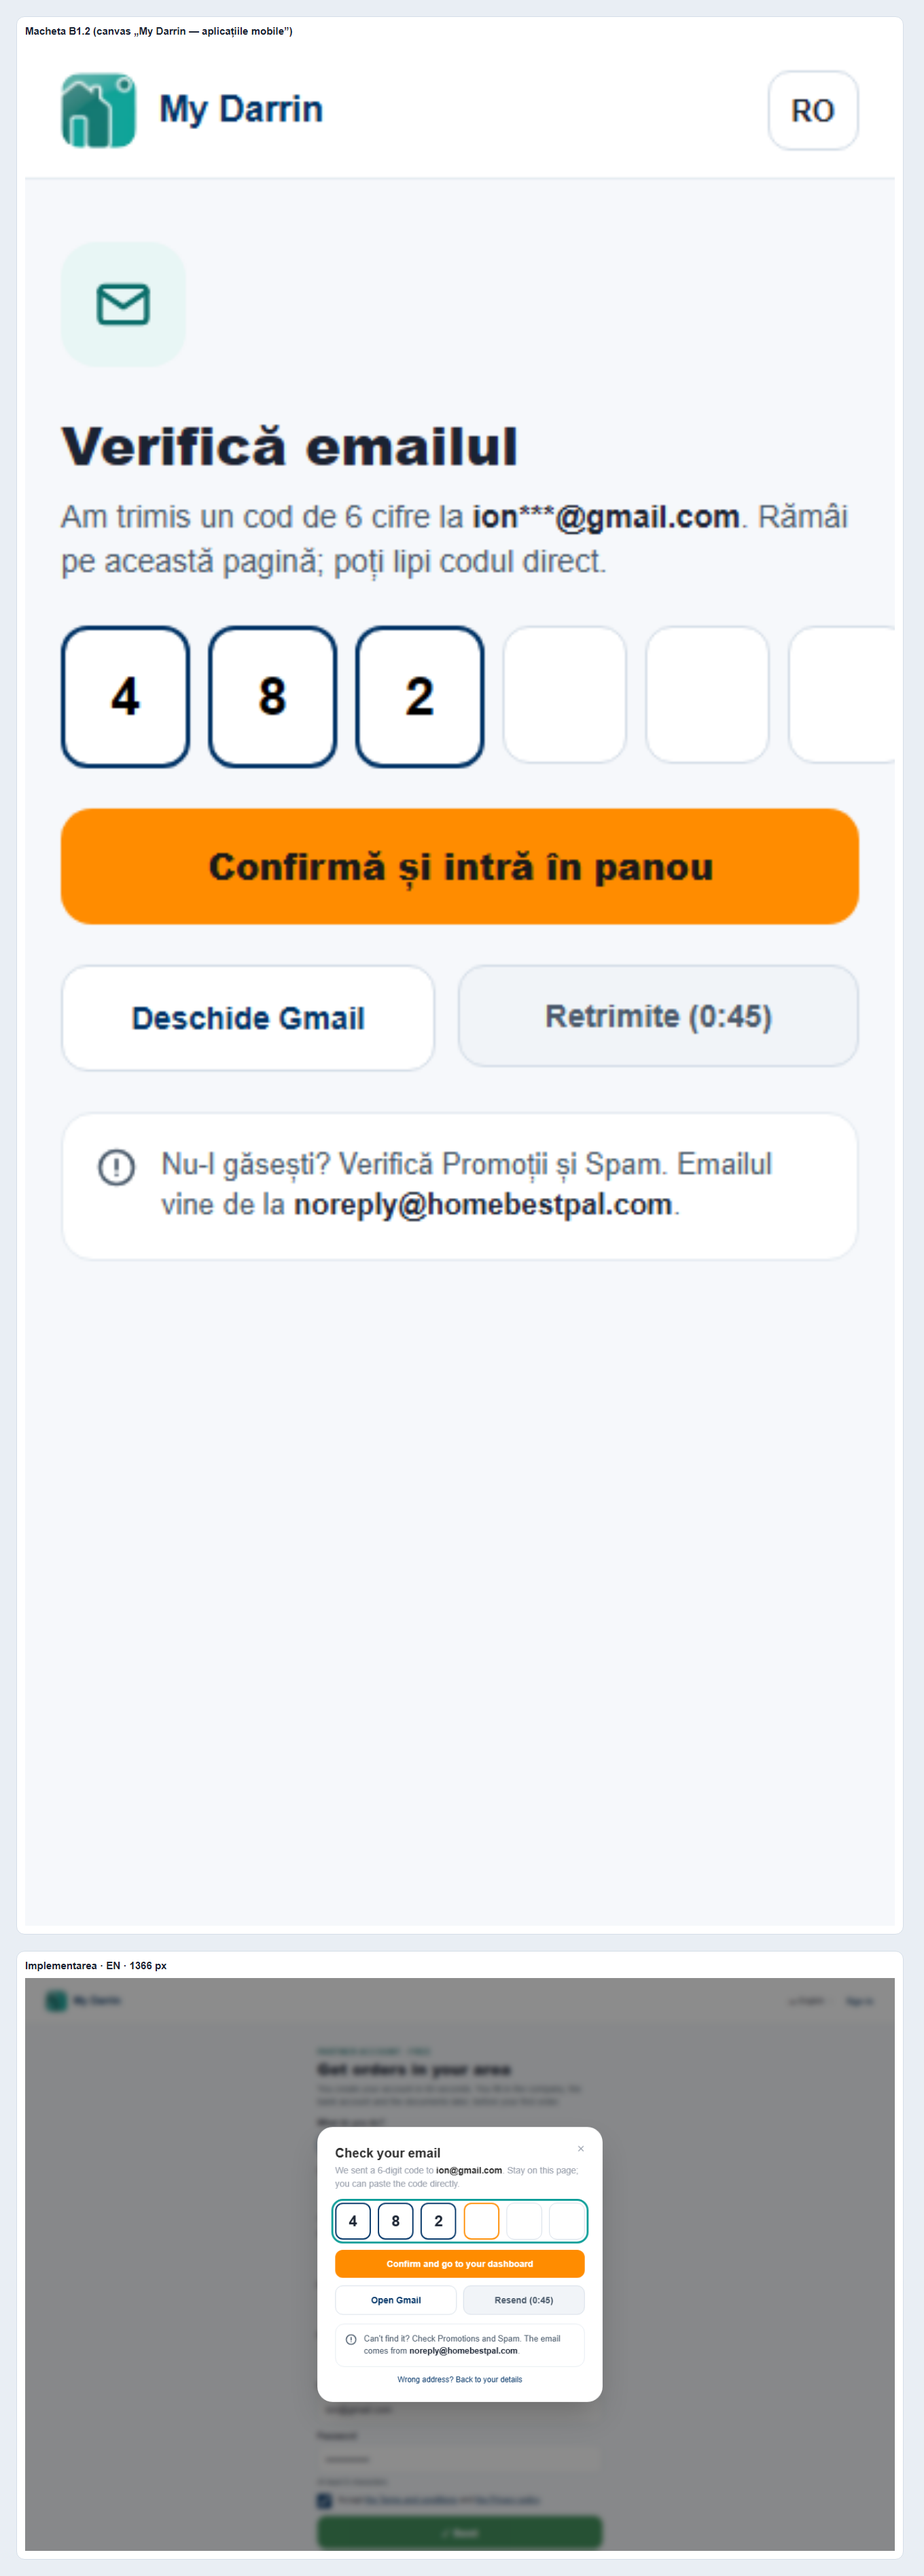
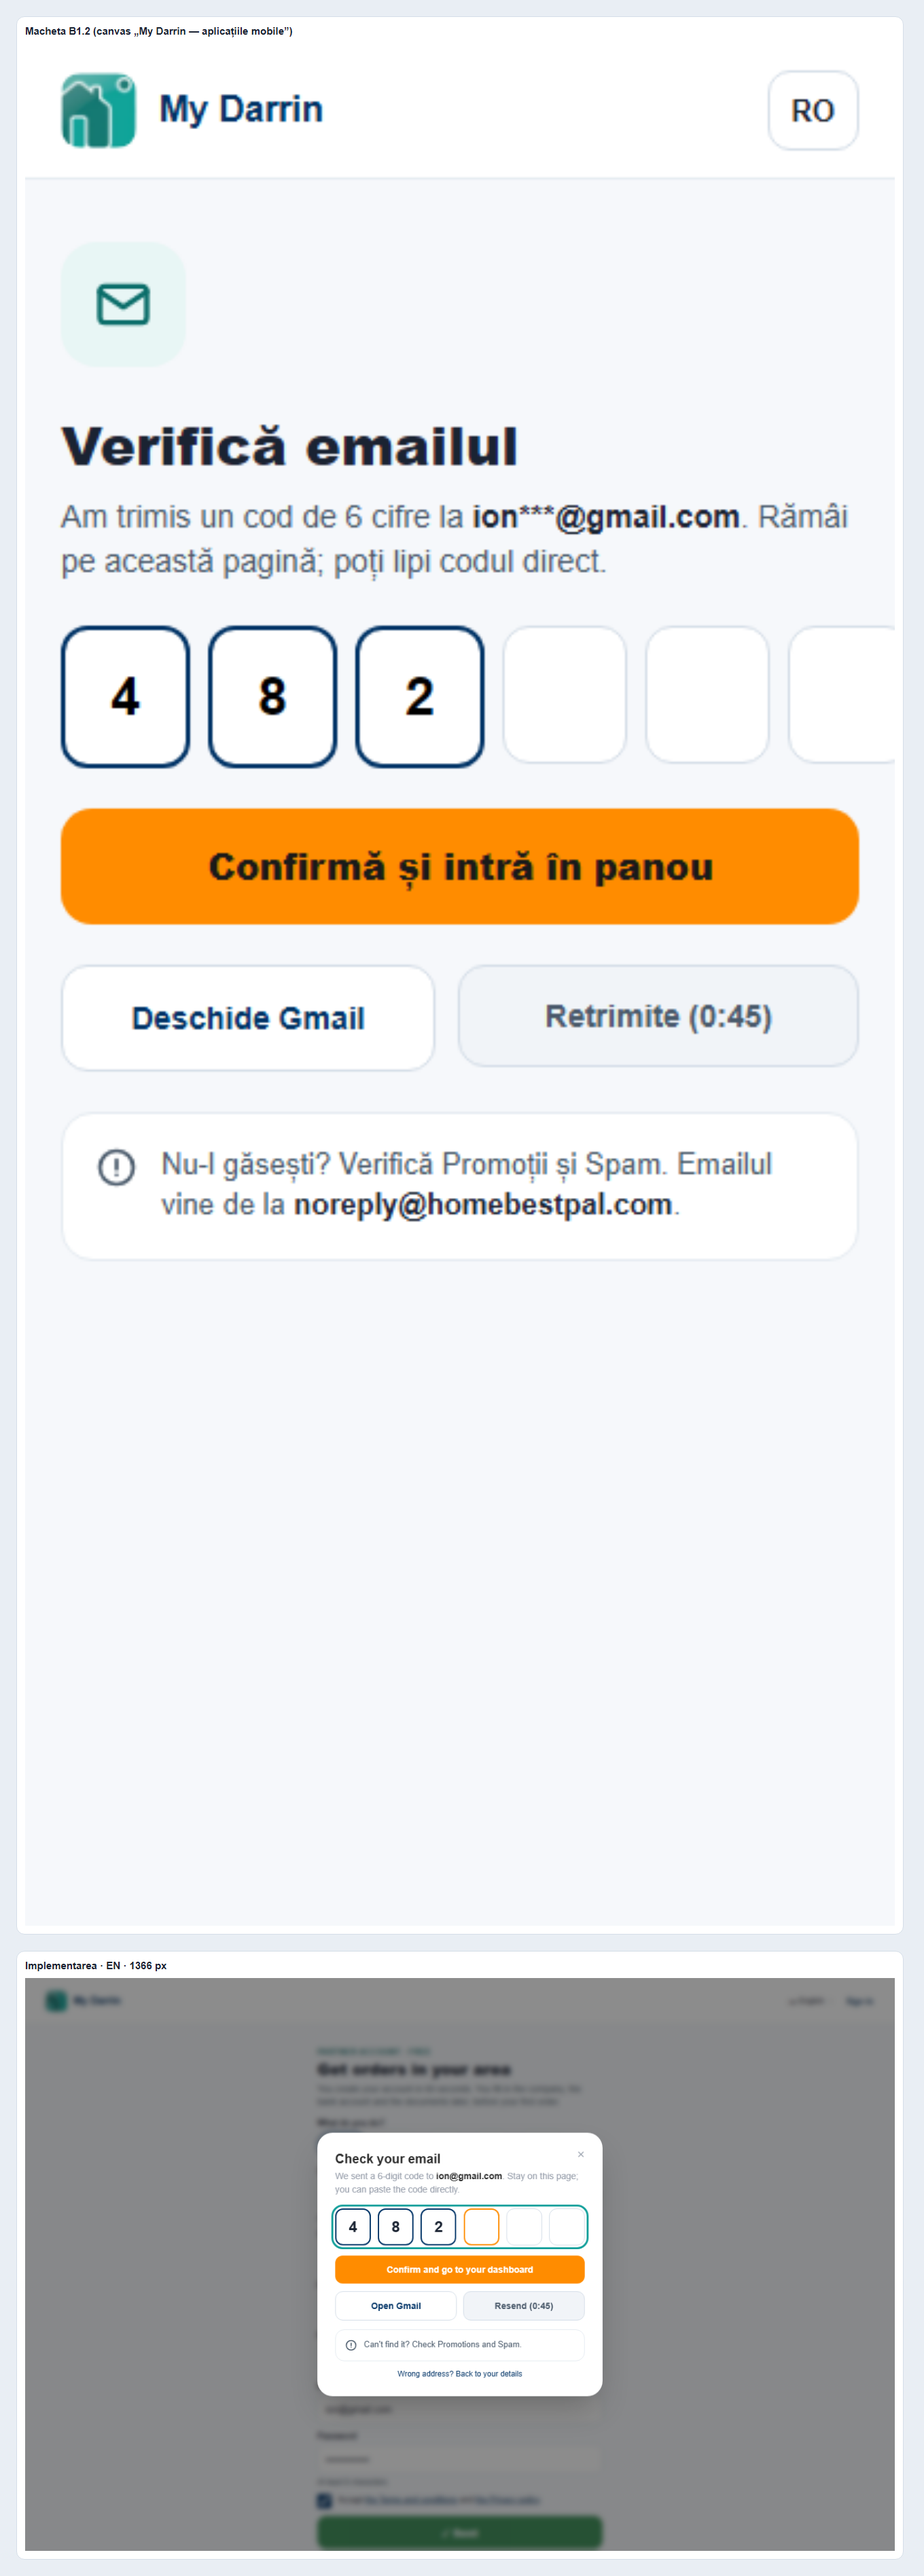
Pasul 12-P1: textele decise de LM (17 nov. 2026); traducerile EN în _texte
- cardul turcoaz: „Comenzi în zona ta · {profesie} · {oraș}” / „Orders in your
  area · {trade} · {city}”, pentru orice tip de partener;
- lista: „Începi cu firma; restul îl faci în ce ordine vrei.” / „Start with the
  company; do the rest in any order.”;
- sfatul Promoții / Spam fără expeditor, până la confirmarea adresei de LM;
- i18n/en.json: traducerile pasului mutate în _texte (intraseră în _modele,
  ultimul obiect al fișierului); cheile nefolosite, scoase;
- capturile B1.2–B1.5 refăcute.

Teste: test-preinscriere-partener.js 209/0, test-emailuri-cod.js 117/0;
detectorul EN = 0 (public 80, cont 26).

Changed region(s): [[0.3397, 0.8093, 0.6485, 0.9338]]

diff --git a/panou-cont-nou.js b/panou-cont-nou.js
@@ -281,24 +281,19 @@
 
   function infoHtml() {
     var t = tip();
-    var o = oras();
-    var unde = o || tr('zona ta');
-    var titlu, text;
+    // Decizia LM (17 nov. 2026): „Comenzi în zona ta · {profesie} · {oraș}”, pentru orice tip
+    // (profesia la servicii, tipul de partener la celelalte); orașul lipsă nu apare.
+    var titlu = [tr('Comenzi în zona ta'), eticheta(), oras()].filter(Boolean).join(' · ');
+    var text;
     if (t === 'servicii') {
-      var prof = numeProfesie();
-      titlu = prof ? tr('Comenzi de {profesie} în {oras}', { profesie: String(prof).toLowerCase(), oras: unde }) : tr('Comenzi de servicii în {oras}', { oras: unde });
       text = tr('Te anunțăm pe email și în aplicație când apare o comandă în zona ta. Vezi suma ta înainte să accepți; 0% comision din manoperă.');
     } else if (t === 'curier') {
-      titlu = tr('Livrări în {oras}', { oras: unde });
       text = tr('Te anunțăm pe email și în aplicație când apare o livrare în zona ta. Vezi suma ta înainte să accepți; 0% comision din manoperă.');
     } else if (t === 'asigurari') {
-      titlu = tr('Cereri de asigurare în {oras}', { oras: unde });
       text = tr('Te anunțăm pe email și în aplicație când un client din zona ta cere o poliță din oferta ta. Prețul public îl afișează platforma; tu acorzi un discount între 5% și 15%, pe categorie.');
     } else {
-      titlu = t === 'materiale' ? tr('Comenzi de materiale în {oras}', { oras: unde }) : tr('Comenzi de închirieri în {oras}', { oras: unde });
       text = tr('Te anunțăm pe email și în aplicație când un client din zona ta comandă din oferta ta. Prețul public îl afișează platforma; tu acorzi un discount între 5% și 15%, pe categorie.');
     }
-    titlu = titlu.charAt(0).toUpperCase() + titlu.slice(1);
     return '<section class="mpn-info" data-mpn-info="' + t + '">' + ICON.clopot + '<div><b>' + esc(titlu) + '</b><span>' + esc(text) + '</span></div></section>';
   }
 
@@ -310,7 +305,7 @@
     var lista = '<section class="mpn-card mpn-lista" aria-labelledby="mpn-t-lista">' +
       '<div class="mpn-cap-lista"><h2>' + esc(tr('Ce mai ai de făcut')) + '</h2><span>' + esc(tr('{n} din 6 pași', { n: sc.pasi_facuti })) + '</span></div>' +
       '<h2 id="mpn-t-lista" class="mpn-t-lista-tel">' + esc(tr('Ce mai ai de făcut')) + '</h2>' +
-      '<p class="mpn-mic">' + esc(tr('Obligatorii înainte de prima comandă acceptată. Le faci în ce ordine vrei.')) + '</p>' +
+      '<p class="mpn-mic">' + esc(tr('Începi cu firma; restul îl faci în ce ordine vrei.')) + '</p>' +
       sc.randuri.map(function (r) { return randHtml(r, sc); }).join('') +
       (urm ? '<button type="button" class="mpn-buton" id="mpn-continua" data-mpn-pas="' + (sc.randuri.filter(function (r) { return r.cheie === sc.urmatorul; })[0] || {}).pas + '">' + esc(tr(pePaTip(urm.urm, tip()))) + '</button>' : '') +
     '</section>';

diff --git a/scripts/test-preinscriere-partener.js b/scripts/test-preinscriere-partener.js
@@ -304,7 +304,7 @@ async function testeBrowser() {
           const ret = await p.evaluate(() => ({ t: document.getElementById('mdc-retrimite').textContent, d: document.getElementById('mdc-retrimite').disabled }));
           verifica(ret.d && /0:4\d/.test(ret.t), `${et} B2: „Retrimite (0:4x)”, dezactivat (${ret.t})`);
           const sfat = await p.textContent('#mdc-cod-indiciu');
-          verifica(/noreply@homebestpal\.com/.test(sfat) && (lang === 'ro' ? /Promoții și Spam/.test(sfat) : /Promotions and Spam/.test(sfat)), `${et} B2: sfatul cu expeditorul (${sfat.trim()})`);
+          verifica((lang === 'ro' ? /Promoții și Spam/.test(sfat) : /Promotions and Spam/.test(sfat)) && !/@/.test(sfat), `${et} B2: sfatul Promoții / Spam, fără expeditor neconfirmat (${sfat.trim()})`);
           verifica(await portocalii(p, '#auth-modal') === 1, `${et} B2: un singur buton portocaliu`);
           // Lipirea: „12 34 56” → 123456, în cele 6 căsuțe.
           await p.fill('#verify-cod-input', 'Cod: 65 43 21');
@@ -327,7 +327,9 @@ async function testeBrowser() {
           const salut = await p.textContent('.mpn-salut');
           verifica(salut.includes(lang === 'ro' ? 'Bun venit, Ion' : 'Welcome, Ion') && salut.includes(lang === 'ro' ? 'Instalator' : 'Plumber') && salut.includes('Iași'), `${et} B3: salutul și profesia (${salut.replace(/\s+/g, ' ').trim()})`);
           const info = await p.textContent('.mpn-info b');
-          verifica(lang === 'ro' ? /Comenzi de instalator în Iași/.test(info) : /Plumber orders in Iași/.test(info), `${et} B3: cardul turcoaz (${info})`);
+          verifica(info === (lang === 'ro' ? 'Comenzi în zona ta · Instalator · Iași' : 'Orders in your area · Plumber · Iași'), `${et} B3: cardul turcoaz (${info})`);
+          const subLista = await p.textContent('.mpn-lista > .mpn-mic');
+          verifica(subLista === (lang === 'ro' ? 'Începi cu firma; restul îl faci în ce ordine vrei.' : 'Start with the company; do the rest in any order.'), `${et} B3: textul listei (${subLista})`);
           verifica(await p.textContent('.mpn-stare .mpn-insigna') === (lang === 'ro' ? 'Profil incomplet' : 'Profile incomplete'), `${et} B3: starea „Profil incomplet”`);
           const port = await p.evaluate(() => [...document.querySelectorAll('#myd-panou-nou *')].filter((b) => b.closest('button, a') && b.getClientRects().length && getComputedStyle(b).visibility !== 'hidden' && /255, 140, 0/.test(getComputedStyle(b).backgroundColor)).map((b) => b.tagName + '.' + b.className + ' ' + b.textContent.trim().slice(0, 30)));
           verifica(port.length === 1, `${et} B3: un singur buton portocaliu în panou (${port.join(' | ')})`);

diff --git a/scripts/test-emailuri-cod.js b/scripts/test-emailuri-cod.js
@@ -16,7 +16,7 @@
 //     fără roșu → cod → destinația (clientul în catalog, partenerul în dashboard);
 //     limita de coduri → mesajul spune să aștepte un minut; în engleză;
 //   - „Creare cont” cu un email neconfirmat → ecranul de cod;
-//   - sfatul „Promoții și Spam”, cu expeditorul, sub câmpul codului (macheta B1.2, pasul 12-P1);
+//   - sfatul „Promoții și Spam” sub câmpul codului (macheta B1.2, pasul 12-P1; expeditorul, după confirmarea LM);
 //   - „Devino partener” (11-R3g: hub-ul) se deschide cu hero, tipuri și pași, fără file goale;
 //   - 390, 768, 1024, 1366 px: fără derulare orizontală, fără erori JS.
 // Rulare: node scripts/test-emailuri-cod.js
@@ -283,7 +283,7 @@ async function testeBrowser() {
       await asteapta(1200);
       verifica(apeluri.bunVenit.length === 0 && apeluri.vechi === 0, `${et}: email de bun venit cerut înainte de cod (${apeluri.bunVenit.length} / vechi ${apeluri.vechi})`);
       const s = await stareCod(p);
-      verifica(s.indiciuVizibil && /Promoții și Spam/.test(s.indiciu) && /noreply@homebestpal\.com/.test(s.indiciu), `${et}: lipsește sfatul „Promoții și Spam” cu expeditorul („${s.indiciu}”)`);
+      verifica(s.indiciuVizibil && /Promoții și Spam/.test(s.indiciu), `${et}: lipsește sfatul „Promoții și Spam” („${s.indiciu}”)`);
       await p.fill('#verify-cod-input', '123456');
       await p.click('#mdc-cod-btn');
       verifica(await asteaptaNavigare(nav, dest), `${et}: după cod a ajuns la ${nav.join(' → ') || 'nicăieri'} (așteptat ${dest})`);

diff --git a/cont-fereastra.js b/cont-fereastra.js
@@ -73,8 +73,6 @@
   // activării după cod (salveazaPreinscriere).
   var CHEIE_ROL_COD = 'myd_pending_confirm_rol';
   var CHEIE_PREINSCRIERE = 'myd_preinscriere_v1';
-  // Expeditorul emailurilor cu cod (domeniul verificat, lib/email-sender.js).
-  var EXPEDITOR = 'noreply@homebestpal.com';
   var RETRIMITE_DUPA_S = 45;
   var PAGINA_INSCRIERE_PARTENER = '/parteneri/inscriere';
 
@@ -485,7 +483,8 @@
           '</div>' +
           '<div id="mdc-retrimite-msg" class="mdc-zona"></div>' +
           '<p class="mdc-cod-sfat" id="mdc-cod-indiciu"><svg aria-hidden="true" width="20" height="20" viewBox="0 0 24 24" fill="none" stroke="#4A5A6B" stroke-width="2" stroke-linecap="round" stroke-linejoin="round"><circle cx="12" cy="12" r="9"/><path d="M12 8v5M12 16h.01"/></svg>' +
-            '<span>' + tr('Nu-l găsești? Verifică Promoții și Spam. Emailul vine de la {expeditor}.', { expeditor: '<b translate="no">' + EXPEDITOR + '</b>' }) + '</span></p>' +
+            // Expeditorul nu apare până nu e confirmat de LM (decizia din 17 nov. 2026).
+            '<span>' + esc(tr('Nu-l găsești? Verifică Promoții și Spam.')) + '</span></p>' +
           '<p class="mdc-jos" style="margin-top:8px"><button type="button" class="mdc-link" id="mdc-alt-email">' + esc(tr('Ai greșit adresa? Înapoi la date')) + '</button></p>' +
         '</form>' +
       '</div>';
